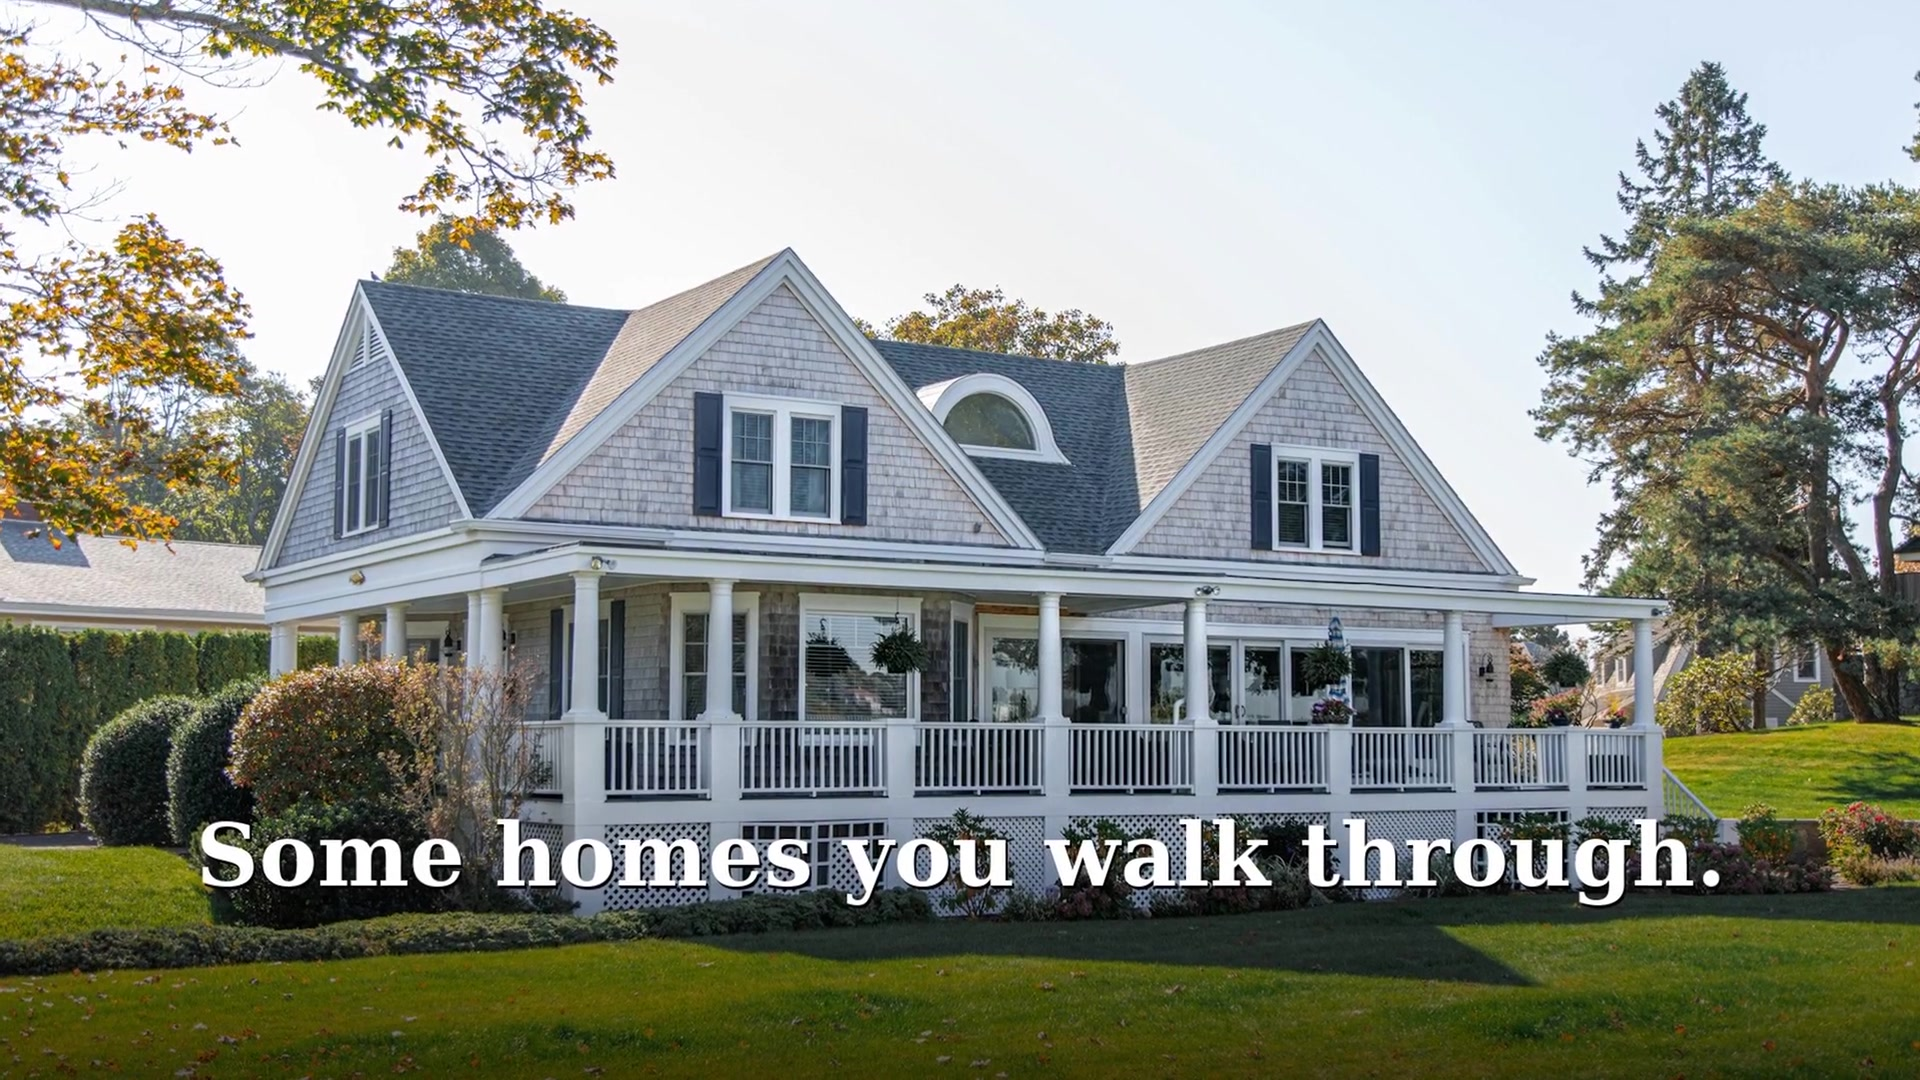
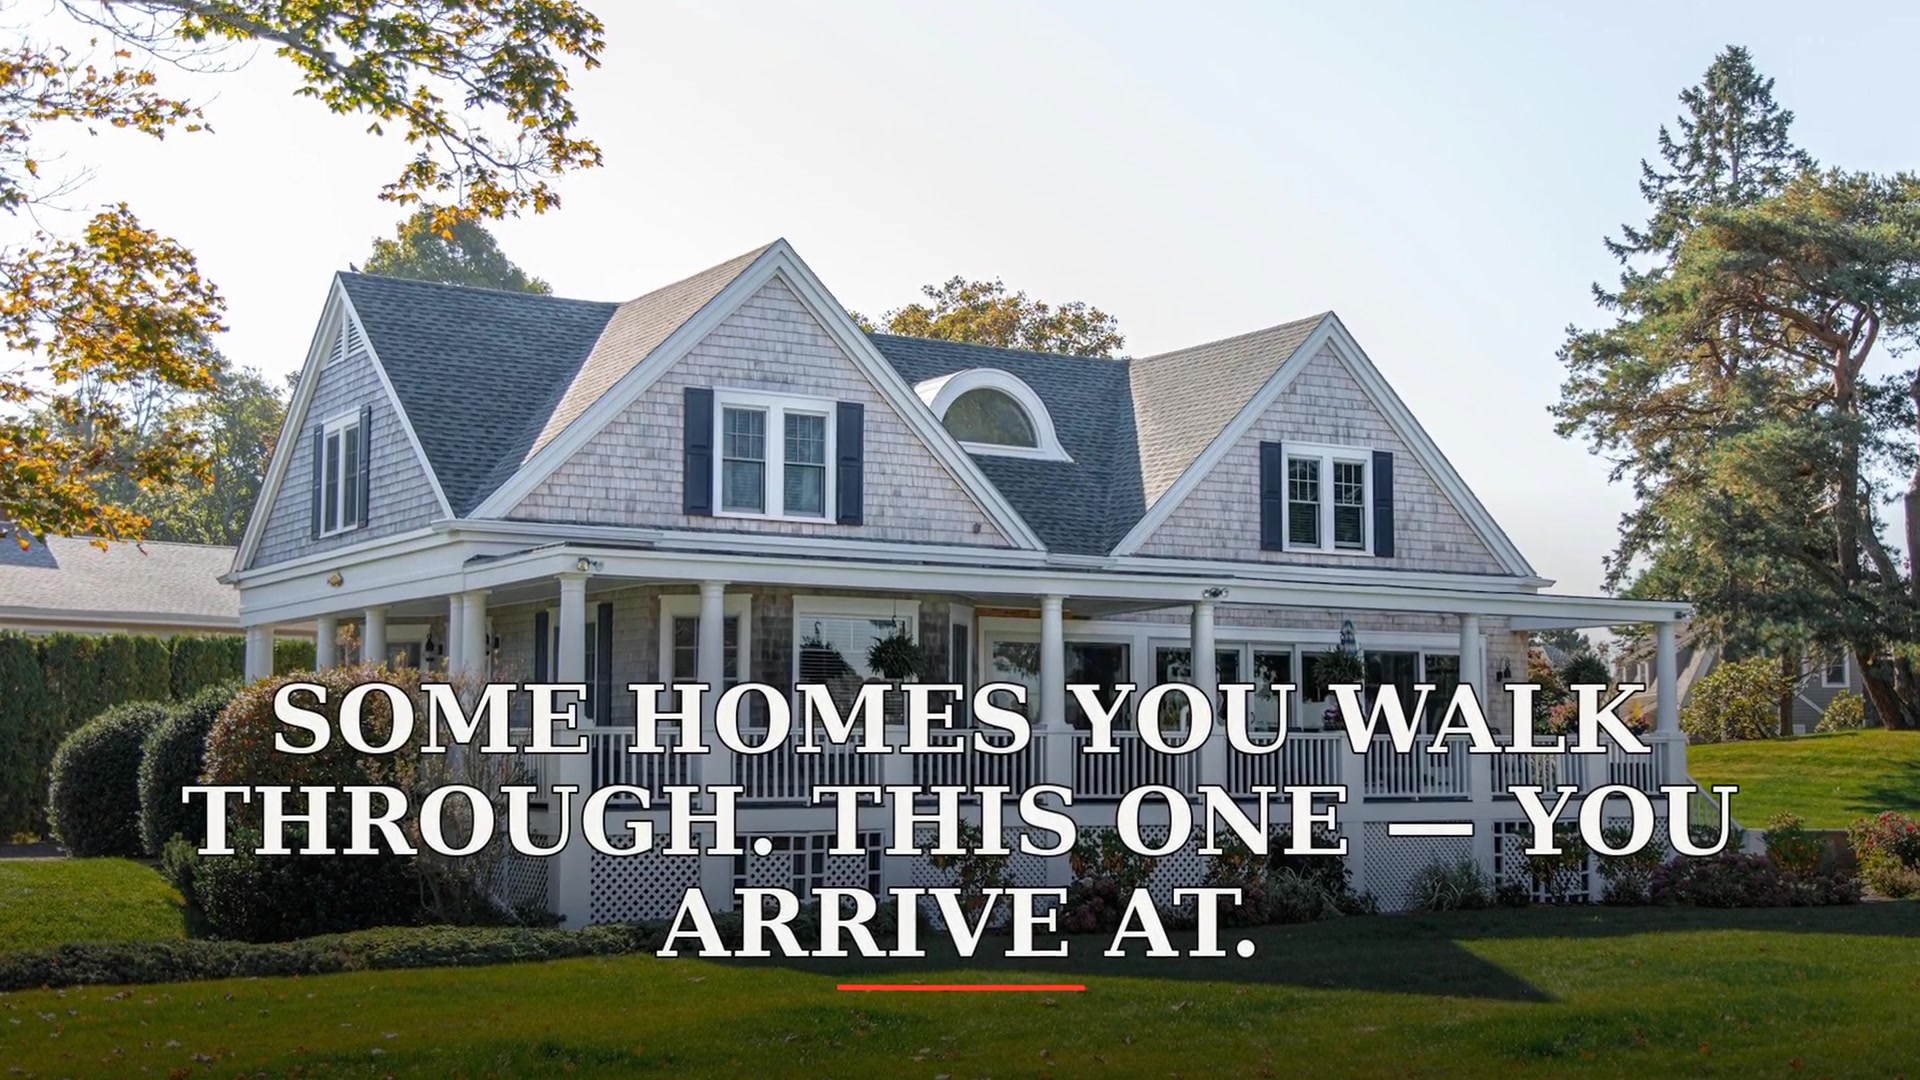
auto-commit for a2cf93e1-9237-43b2-a431-1f1f59606fb9

diff --git a/frontend/src/components/AIVideoShowcase.jsx b/frontend/src/components/AIVideoShowcase.jsx
@@ -13,7 +13,7 @@ export default function AIVideoShowcase() {
   const [playing, setPlaying] = useState(true);
 
   // Cache-buster: bump this when re-rendering the demo so browsers pull fresh
-  const VIDEO_VERSION = "v8-silent";
+  const VIDEO_VERSION = "v9-realmusic";
   const VIDEO_SRC = `/hero-demo.mp4?${VIDEO_VERSION}`;
 
   // Source photos (small thumbs strip — same Unsplash set the video was built from)